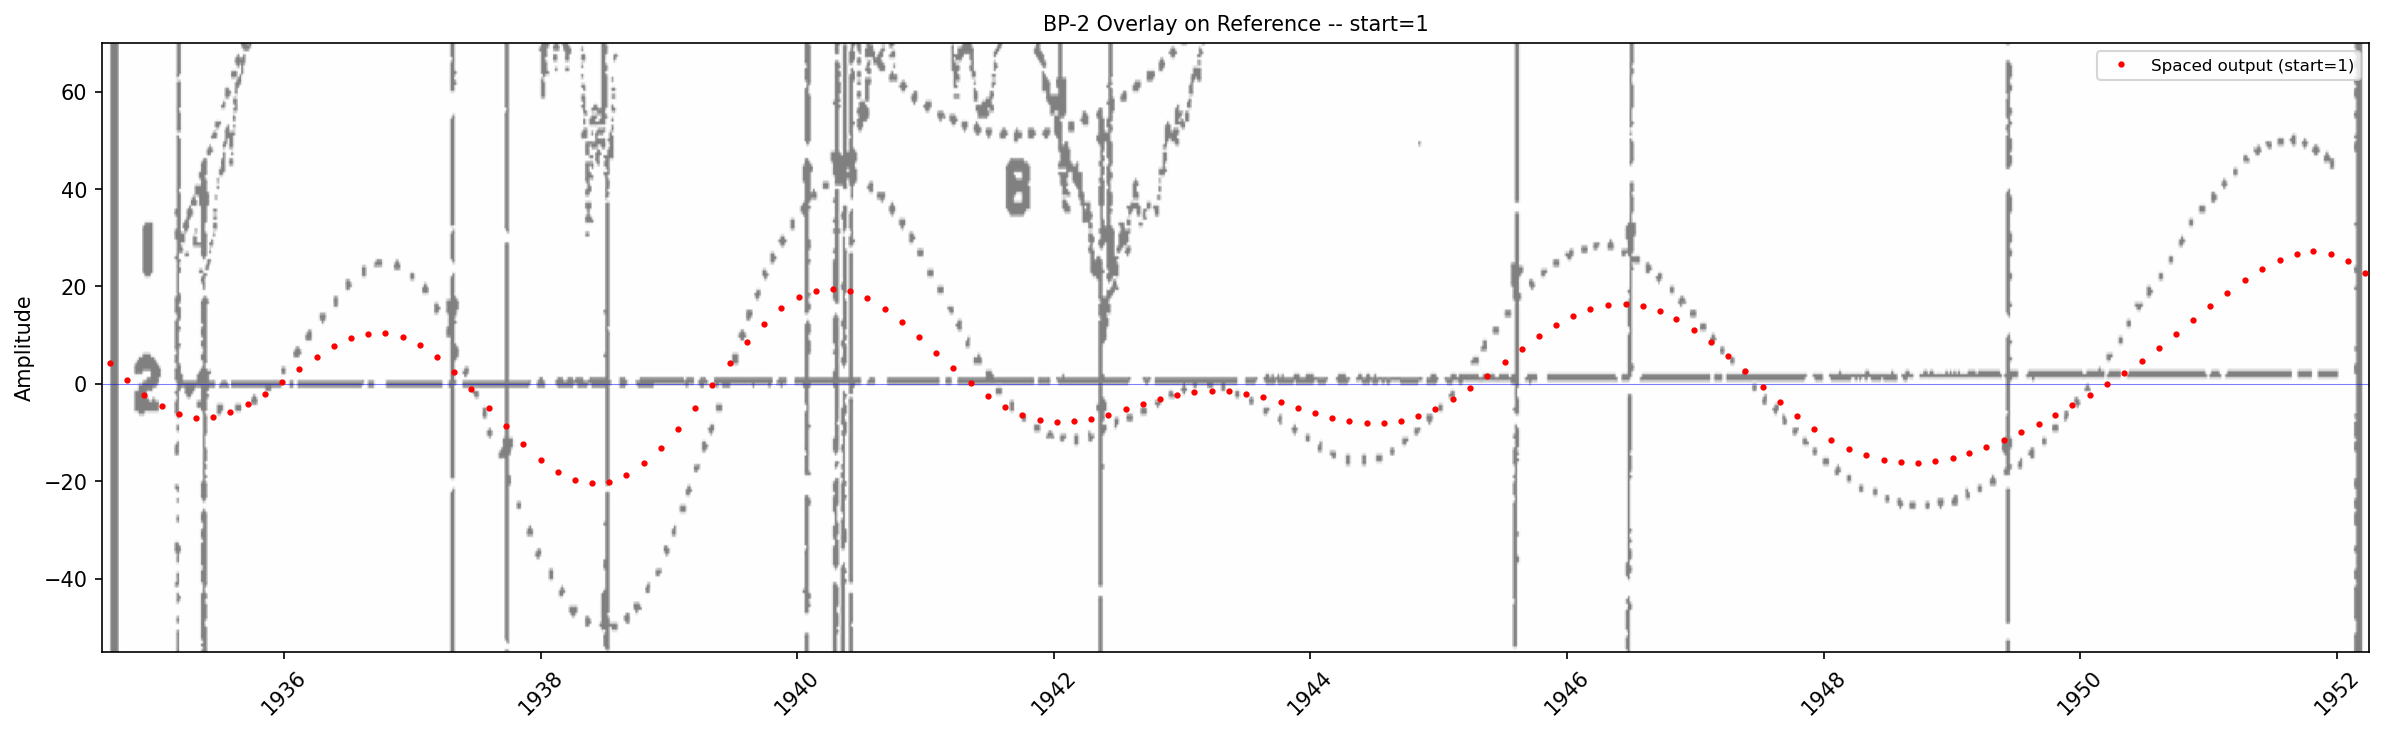
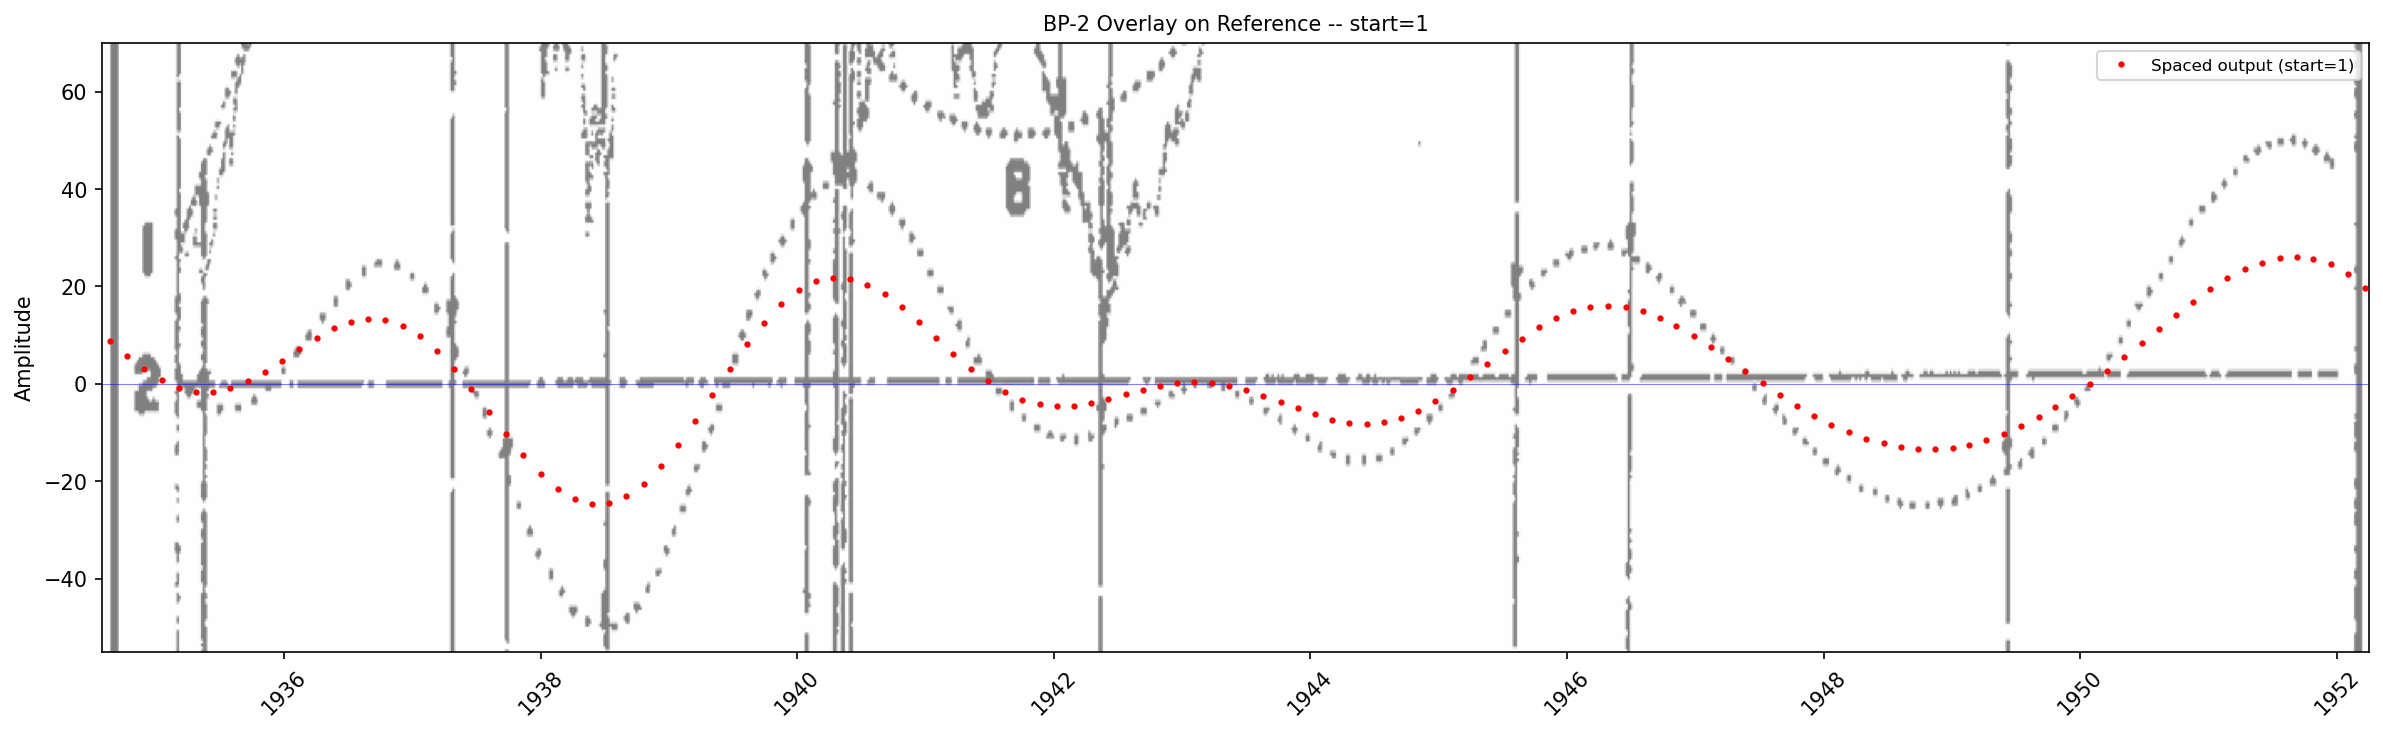
20260213 commit space fixed

diff --git a/src/filters/funcOrmsby.py b/src/filters/funcOrmsby.py
@@ -19,26 +19,33 @@ def ormsby_filter(
     fs,
     filter_type='bp',
     method='modulate',      # 'subtract' or 'modulate' (for bp only)
-    analytic=False         # True → complex quadrature filter 
-    #constrain_dc=False      # Optional: enforce H(0)=1 for LP - DF Dropped this else we get half amplitude on low pass
+    analytic=False,         # True → complex quadrature filter
+    spacing=1              # Decimation factor: fs is divided by spacing internally
 ):
-    
+
     """
-    (Recommendation Use the modulate method for analytic bandpass filters - it's Cleaner (no wobble)
-     More symmetric
-     Better phase characteristics
-     Standard practice in signal processing
-     The subtract method works and can be useful for understanding the construction, but modulate is superior for production use.
+    Create FIR filter coefficients using the Ormsby method.
+
+    When spacing > 1, the sample rate is adjusted internally (fs / spacing)
+    so the kernel is designed for the decimated rate. The kernel length nw
+    stays as specified — at spacing=7, nw=199 taps span 199*7 = 1393 weeks.
+
+    Recommendation: Use the modulate method for analytic bandpass filters —
+    cleaner, more symmetric, better phase characteristics.
+    The subtract method works and can be useful for understanding the
+    construction, but modulate is superior for production use.
     """
-    
+
     if nw % 2 == 0:
         nw += 1
     N = nw
     M = N // 2
     n = np.arange(-M, M + 1)
 
-    #fs = 1.0 / dt  # ← Keep this, remove the hardcoded fs=52
-    #fs = 52
+    # Adjust sample rate for spaced filters
+    if spacing > 1:
+        fs = fs / spacing
+
     nyq = fs / 2.0
 
     def norm_freq(f):
@@ -375,21 +382,34 @@ def ormsby_derivative_filter(nw, f_pass, f_stop, fs, constrain=True, min_gain=1e
     
     return h
 
-def apply_ormsby_filter(signal, h, mode='reflect', fs=None):
+def apply_ormsby_filter(signal, h, mode='reflect', fs=None,
+                       spacing=1, startidx=0, interp='none'):
     """
     Apply a real or complex FIR filter to a real signal and return analytic components.
-    
+
+    When spacing > 1, the input is decimated first (every spacing-th sample
+    starting at startidx), the filter is applied to the decimated signal, and
+    the result is placed back into a full-length array.  The kernel h should
+    have been designed at the decimated sample rate (fs/spacing).
+
     Parameters
     ----------
     signal : array-like, shape (L,)
         Real-valued input (e.g., log-price, returns).
-    h : array-like, shape (N,) — N must be odd
+    h : array-like, shape (N,) -- N must be odd
         Filter coefficients (real or complex). Assumed zero-phase and centered.
     mode : {'valid', 'zeropad', 'reflect'}
         Boundary handling method.
     fs : float, optional
-        fs Sampling interval (seconds). Required if you want instantaneous frequency.
-    
+        Sampling rate. Required if you want instantaneous frequency.
+    spacing : int, optional
+        Decimation factor. 1 = no decimation (default).
+    startidx : int, optional
+        0-based starting index for decimation (0 through spacing-1). Default 0.
+    interp : str, optional
+        Gap-filling after decimation: 'none', '3point', 'cubic', 'linear'.
+        Default 'none' (NaN between samples).
+
     Returns
     -------
     result : dict
@@ -397,19 +417,36 @@ def apply_ormsby_filter(signal, h, mode='reflect', fs=None):
             'signal': ndarray,          # filtered output (same length as input)
             'envelope': ndarray or None,
             'phase': ndarray or None,
-            'frequency': ndarray or None  # in Hz, if dt provided
+            'frequency': ndarray or None  # in Hz, if fs provided
         }
     """
     signal = np.asarray(signal, dtype=np.float64)
     h = np.asarray(h)
-    
+
     if h.ndim != 1:
         raise ValueError("Filter h must be 1D")
     if signal.ndim != 1:
         raise ValueError("Signal must be 1D")
     if len(h) % 2 == 0:
         raise ValueError("Filter length must be odd (for centered design)")
-    
+
+    if spacing > 1:
+        from src.filters.decimation import decimate_signal, interpolate_output_dict
+        full_length = len(signal)
+        signal_dec, indices = decimate_signal(signal, spacing, offset=startidx + 1)
+        fs_dec = fs / spacing if fs is not None else None
+        result = _apply_ormsby_core(signal_dec, h, mode, fs_dec)
+        return interpolate_output_dict(result, indices, full_length, method=interp)
+
+    return _apply_ormsby_core(signal, h, mode, fs)
+
+
+def _apply_ormsby_core(signal, h, mode, fs):
+    """
+    Core convolution + analytic extraction logic.
+
+    Parameters match the non-decimated path of apply_ormsby_filter().
+    """
     L = len(signal)
     N = len(h)
     M = N // 2

diff --git a/src/time_frequency/cmw.py b/src/time_frequency/cmw.py
@@ -151,7 +151,7 @@ def cmw_freq_domain(f0, fwhm, fs, nfft, analytic=True):
 # ============================================================================
 
 def apply_cmw(signal, f0, fwhm, fs, analytic=True,
-              spacing=1, offset=1, interp='none'):
+              spacing=1, startidx=0, interp='none'):
     """
     Apply a single CMW to a signal via FFT multiplication.
 
@@ -169,8 +169,8 @@ def apply_cmw(signal, f0, fwhm, fs, analytic=True,
         If True, returns complex analytic signal with envelope/phase.
     spacing : int
         Decimation factor. 1 = no decimation (default). N = every Nth sample.
-    offset : int
-        1-based starting index (1 through spacing). Default 1.
+    startidx : int
+        0-based starting index (0 through spacing-1). Default 0.
     interp : str
         Gap-filling method: 'none', '3point', 'cubic', 'linear'
 
@@ -178,11 +178,11 @@ def apply_cmw(signal, f0, fwhm, fs, analytic=True,
     -------
     result : dict
         Same structure as apply_ormsby_filter():
-        'signal': ndarray — filtered output (complex if analytic, real if not)
-        'envelope': ndarray or None — |z(t)| if analytic
-        'phase': ndarray or None — unwrapped phase if analytic
-        'phasew': ndarray or None — wrapped phase if analytic
-        'frequency': ndarray or None — instantaneous freq in cycles/year
+        'signal': ndarray -- filtered output (complex if analytic, real if not)
+        'envelope': ndarray or None -- |z(t)| if analytic
+        'phase': ndarray or None -- unwrapped phase if analytic
+        'phasew': ndarray or None -- wrapped phase if analytic
+        'frequency': ndarray or None -- instantaneous freq in cycles/year
     """
     signal = np.asarray(signal, dtype=np.float64)
     full_length = len(signal)
@@ -195,7 +195,7 @@ def apply_cmw(signal, f0, fwhm, fs, analytic=True,
         if interp not in VALID_METHODS:
             raise ValueError(f"interp must be one of {VALID_METHODS}, got '{interp}'")
 
-        signal_dec, indices = decimate_signal(signal, spacing, offset)
+        signal_dec, indices = decimate_signal(signal, spacing, offset=startidx + 1)
         fs_dec = fs / spacing
 
         # Nyquist check
@@ -265,7 +265,7 @@ def _apply_cmw_core(signal, f0, fwhm, fs, analytic):
 # ============================================================================
 
 def apply_cmw_bank(signal, cmw_params_list, fs, analytic=True,
-                   spacing=1, offset=1, interp='none'):
+                   spacing=1, startidx=0, interp='none'):
     """
     Apply a bank of CMWs to a signal.
 
@@ -282,8 +282,8 @@ def apply_cmw_bank(signal, cmw_params_list, fs, analytic=True,
         If True, extract envelopes and phase.
     spacing : int
         Decimation factor. 1 = no decimation (default). N = every Nth sample.
-    offset : int
-        1-based starting index (1 through spacing). Default 1.
+    startidx : int
+        0-based starting index (0 through spacing-1). Default 0.
     interp : str
         Gap-filling method: 'none', '3point', 'cubic', 'linear'
 
@@ -306,7 +306,7 @@ def apply_cmw_bank(signal, cmw_params_list, fs, analytic=True,
 
         output = apply_cmw(signal, params['f0'], params['fwhm'], fs,
                            analytic=use_analytic,
-                           spacing=spacing, offset=offset, interp=interp)
+                           spacing=spacing, startidx=startidx, interp=interp)
         output['spec'] = params
         output['index'] = i
         results['filter_outputs'].append(output)

diff --git a/experiments/appendix_A/test_decimation.py b/experiments/appendix_A/test_decimation.py
@@ -116,7 +116,7 @@ print("-" * 60)
 
 results_baseline = apply_filter_bank(close_prices, filters, fs=FS, mode='reflect')
 results_s1 = apply_filter_bank(close_prices, filters, fs=FS, mode='reflect',
-                               spacing=1, offset=1, interp='none')
+                               spacing=1, startidx=0, interp='none')
 
 all_match = True
 for i in range(len(filters)):
@@ -144,7 +144,7 @@ ormsby_results = {}
 for method in INTERP_METHODS:
     ormsby_results[method] = apply_filter_bank(
         close_prices, filters, fs=FS, mode='reflect',
-        spacing=SPACING, offset=1, interp=method
+        spacing=SPACING, startidx=0, interp=method
     )
 
 # Verify output lengths
@@ -214,7 +214,7 @@ print("-" * 60)
 for off in OFFSETS:
     res = apply_filter_bank(
         close_prices, filters, fs=FS, mode='reflect',
-        spacing=SPACING, offset=off, interp='3point'
+        spacing=SPACING, startidx=off-1, interp='3point'
     )
     env = res['filter_outputs'][0]['envelope']
     valid = ~np.isnan(env)
@@ -223,7 +223,7 @@ for off in OFFSETS:
     if valid_both.any():
         rms = np.sqrt(np.mean((env_base[valid_both] - env[valid_both])**2))
         rel = rms / (np.mean(env_base[valid_both]) + 1e-10) * 100
-        print(f"  offset={off}: FC-1 envelope relative RMS = {rel:.1f}%%")
+        print(f"  startidx={off-1}: FC-1 envelope relative RMS = {rel:.1f}%%")
 print()
 
 
@@ -244,11 +244,11 @@ cmw_baseline = apply_cmw_bank(close_prices, cmw_params, fs=FS, analytic=True)
 
 # Decimated CMW
 cmw_dec = apply_cmw_bank(close_prices, cmw_params, fs=FS, analytic=True,
-                         spacing=SPACING, offset=1, interp='3point')
+                         spacing=SPACING, startidx=0, interp='3point')
 
 # Regression: spacing=1
 cmw_s1 = apply_cmw_bank(close_prices, cmw_params, fs=FS, analytic=True,
-                        spacing=1, offset=1, interp='none')
+                        spacing=1, startidx=0, interp='none')
 cmw_match = True
 for i in range(len(cmw_params)):
     env_base = cmw_baseline['filter_outputs'][i]['envelope']
@@ -333,7 +333,7 @@ plt.close(fig)
 
 # Also compute CMW with cubic for comparison
 cmw_cubic = apply_cmw_bank(close_prices, cmw_params, fs=FS, analytic=True,
-                           spacing=SPACING, offset=1, interp='cubic')
+                           spacing=SPACING, startidx=0, interp='cubic')
 
 fig2, axes2 = plt.subplots(len(REPR_FILTERS), 1, figsize=(16, 4*len(REPR_FILTERS)),
                            sharex=True)

diff --git a/experiments/page_152/investigate_bp2_spacing.py b/experiments/page_152/investigate_bp2_spacing.py
@@ -28,7 +28,6 @@ import numpy as np
 import matplotlib.pyplot as plt
 import matplotlib.dates as mdates
 import matplotlib.image as mpimg
-from scipy.signal import filtfilt
 
 from src.filters import (
     ormsby_filter,
@@ -134,35 +133,21 @@ print(f"  Output range (display): [{output_full[s_idx:e_idx].min():.2f}, "
 
 print(f"\n--- Step 2: Decimate-first approach (nw={NW_SHORT}, step={STEP}) ---")
 
-# Reduced sample rate
 fs_dec = FS / STEP
 print(f"  Decimated sample rate: {fs_dec:.2f} samples/yr")
 print(f"  Effective time span: {NW_SHORT} taps * {STEP} wk/tap = {NW_SHORT * STEP} weeks")
 
-# Design filter at the decimated sample rate
-# Same physical frequencies, different fs
-f_edges_dec = np.array([BP2_SPEC['f1'], BP2_SPEC['f2'],
-                         BP2_SPEC['f3'], BP2_SPEC['f4']]) / TWOPI
-h_short = ormsby_filter(nw=NW_SHORT, f_edges=f_edges_dec, fs=fs_dec,
+# Design filter using built-in spacing parameter (auto-adjusts fs)
+h_short = ormsby_filter(nw=NW_SHORT, f_edges=f_edges_full, fs=FS, spacing=STEP,
                         filter_type='bp', method='modulate', analytic=False)
-
 print(f"  Short kernel length: {len(h_short)}")
 
-# For each start index (0 through STEP-1):
-#   1. Decimate input: y_dec = close_prices[start::step]
-#   2. Filter decimated signal: filtfilt(h_short, 1.0, y_dec)
-#   3. Place back: output[start::step] = filtered
+# Apply with built-in spacing/startidx for each start index
 spaced_outputs = {}
 for start in range(STEP):
-    y_dec = close_prices[start::STEP]
-    # padlen must be < len(y_dec); default is 3*nw which may exceed it
-    pad = min(3 * (NW_SHORT - 1), len(y_dec) - 1)
-    y_filtered = filtfilt(h_short, 1.0, y_dec, padlen=pad)
-
-    # Place back into full-length array with NaN between
-    out_spaced = np.full(n_points, np.nan)
-    out_spaced[start::STEP] = y_filtered
-    spaced_outputs[start] = out_spaced
+    result = apply_ormsby_filter(close_prices, h_short, mode='reflect',
+                                 fs=FS, spacing=STEP, startidx=start)
+    spaced_outputs[start] = result['signal']
 
 # Show stats for start=0 (default)
 valid_disp = spaced_outputs[0][s_idx:e_idx]

diff --git a/src/filters/funcDesignFilterBank.py b/src/filters/funcDesignFilterBank.py
@@ -441,7 +441,7 @@ def create_filter_kernels(filter_specs, fs=52, filter_type='modulate', analytic=
 
 
 def apply_filter_bank(signal, filters, fs=52, mode='reflect',
-                      spacing=1, offset=1, interp='none'):
+                      spacing=1, startidx=0, interp='none'):
     """
     Apply all filters in the bank to a signal.
     Uses apply_ormsby_filter() from your existing code.
@@ -458,8 +458,8 @@ def apply_filter_bank(signal, filters, fs=52, mode='reflect',
         Boundary handling: 'reflect', 'zeropad', or 'valid'
     spacing : int
         Decimation factor. 1 = no decimation (default). N = every Nth sample.
-    offset : int
-        1-based starting index (1 through spacing). Default 1.
+    startidx : int
+        0-based starting index (0 through spacing-1). Default 0.
     interp : str
         Gap-filling method: 'none', '3point', 'cubic', 'linear'
 
@@ -499,7 +499,7 @@ def apply_filter_bank(signal, filters, fs=52, mode='reflect',
     if interp not in VALID_METHODS:
         raise ValueError(f"interp must be one of {VALID_METHODS}, got '{interp}'")
 
-    signal_dec, indices = decimate_signal(signal, spacing, offset)
+    signal_dec, indices = decimate_signal(signal, spacing, offset=startidx + 1)
     fs_dec = fs / spacing
     nyq_dec = np.pi * fs_dec  # Nyquist in rad/yr
 
